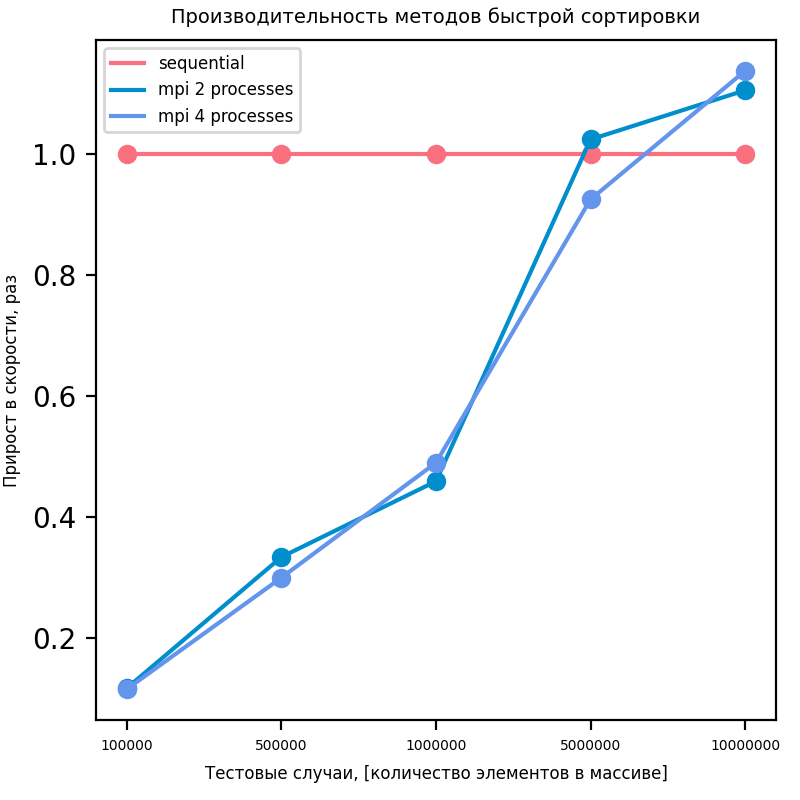
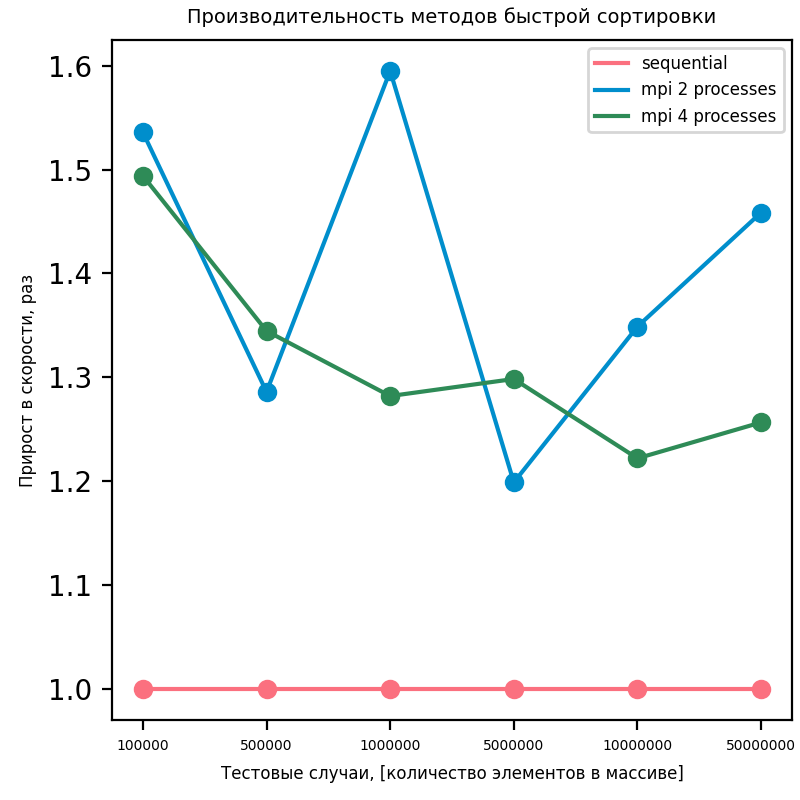
update benchmark way in task_3

diff --git a/implementation/task_3/sources/hypercube_quicksort.cpp b/implementation/task_3/sources/hypercube_quicksort.cpp
@@ -9,6 +9,7 @@
 
 int procs_rank;
 int procs_num;
+double start_time;
 
 
 void distribute_data(char *filename, int **array, int &array_length, int **local_array, int &local_array_length) {
@@ -16,6 +17,7 @@ void distribute_data(char *filename, int **array, int &array_length, int **local
     int *procs_array_indices = new int[procs_num];;
     if (procs_rank == 0) {
         get_array(filename, array, array_length);
+        start_time = MPI_Wtime();
         int chunk_size = array_length / procs_num;
         int bonus = array_length % procs_num;
         for (int i = 0; i < procs_num; ++i) {
@@ -192,7 +194,6 @@ void parallel_sort_array(char *filename) {
     MPI_Init(nullptr, nullptr);
     MPI_Comm_size(MPI_COMM_WORLD, &procs_num);
     MPI_Comm_rank(MPI_COMM_WORLD, &procs_rank);
-
     distribute_data(filename, &array, array_length, &local_array, local_array_length);
     hypercube_quicksort(local_array, local_array_length);
     merge_local_arrays(array, array_length, local_array, local_array_length);
@@ -203,6 +204,8 @@ void parallel_sort_array(char *filename) {
             std::cerr << "Array has sorted incorrectly." << std::endl;
             std::exit(1);
         }
+        double end_time = MPI_Wtime();
+        std::cout << procs_num << " " << end_time - start_time << std::endl;
     }
     delete[] array;
     delete[] local_array;

diff --git a/implementation/task_3/sources/quicksort.cpp b/implementation/task_3/sources/quicksort.cpp
@@ -1,3 +1,4 @@
+#include "mpi.h"
 #include <chrono>
 #include <cmath>
 #include <iomanip>
@@ -38,12 +39,15 @@ void quicksort(int *array, int left_index, int right_index) {
 void sort_array(char *filename) {
     int *array = nullptr;
     int array_length;
+    MPI_Init(nullptr, nullptr);
     get_array(filename, &array, array_length);
-
+    double start_time = MPI_Wtime();
     quicksort(array, 0, array_length - 1);
     bool is_correct = is_result_correct(array, array_length);
     if (!is_correct) {
-        std::cerr << "Array has sorted incorrectly." << std::endl;
+        std::cout << "Array has sorted incorrectly." << std::endl;
         std::exit(1);
     }
+    double end_time = MPI_Wtime();
+    std::cout << "1 " << end_time - start_time << std::endl;
 }
